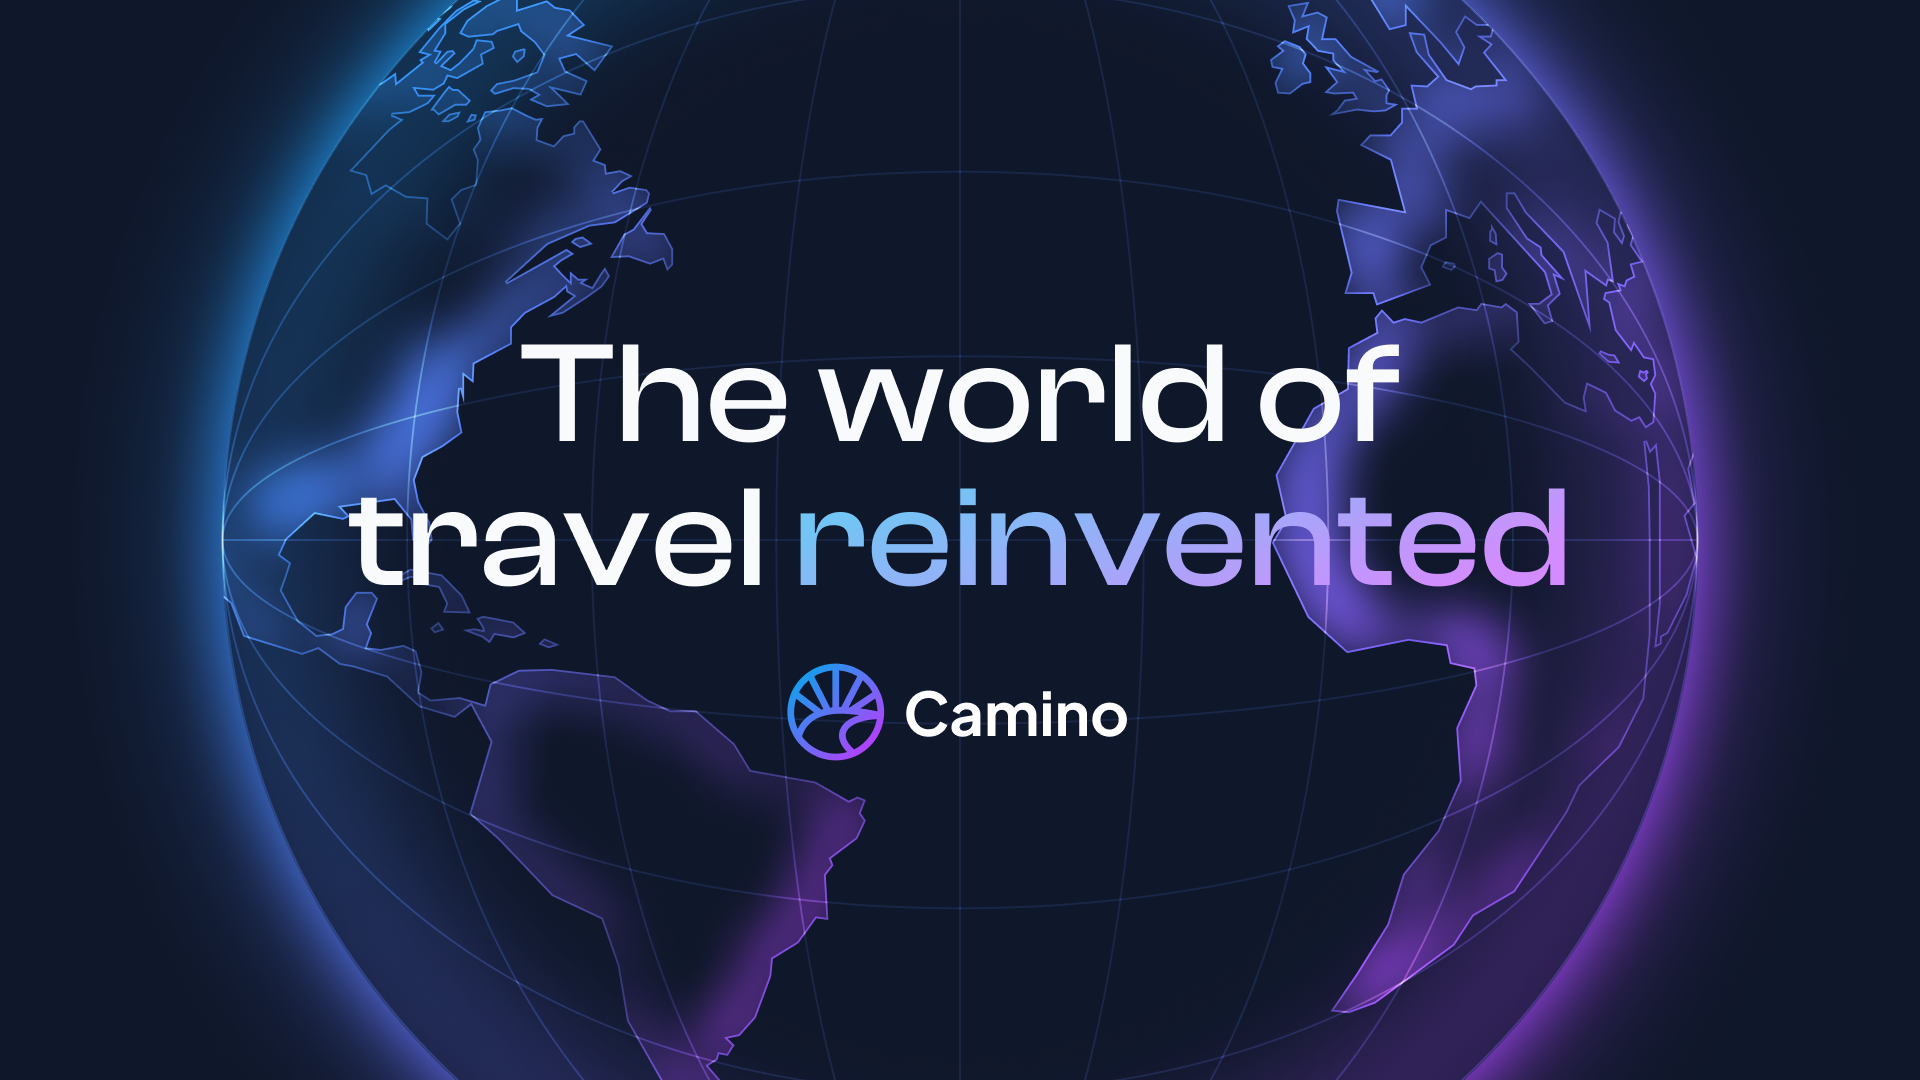
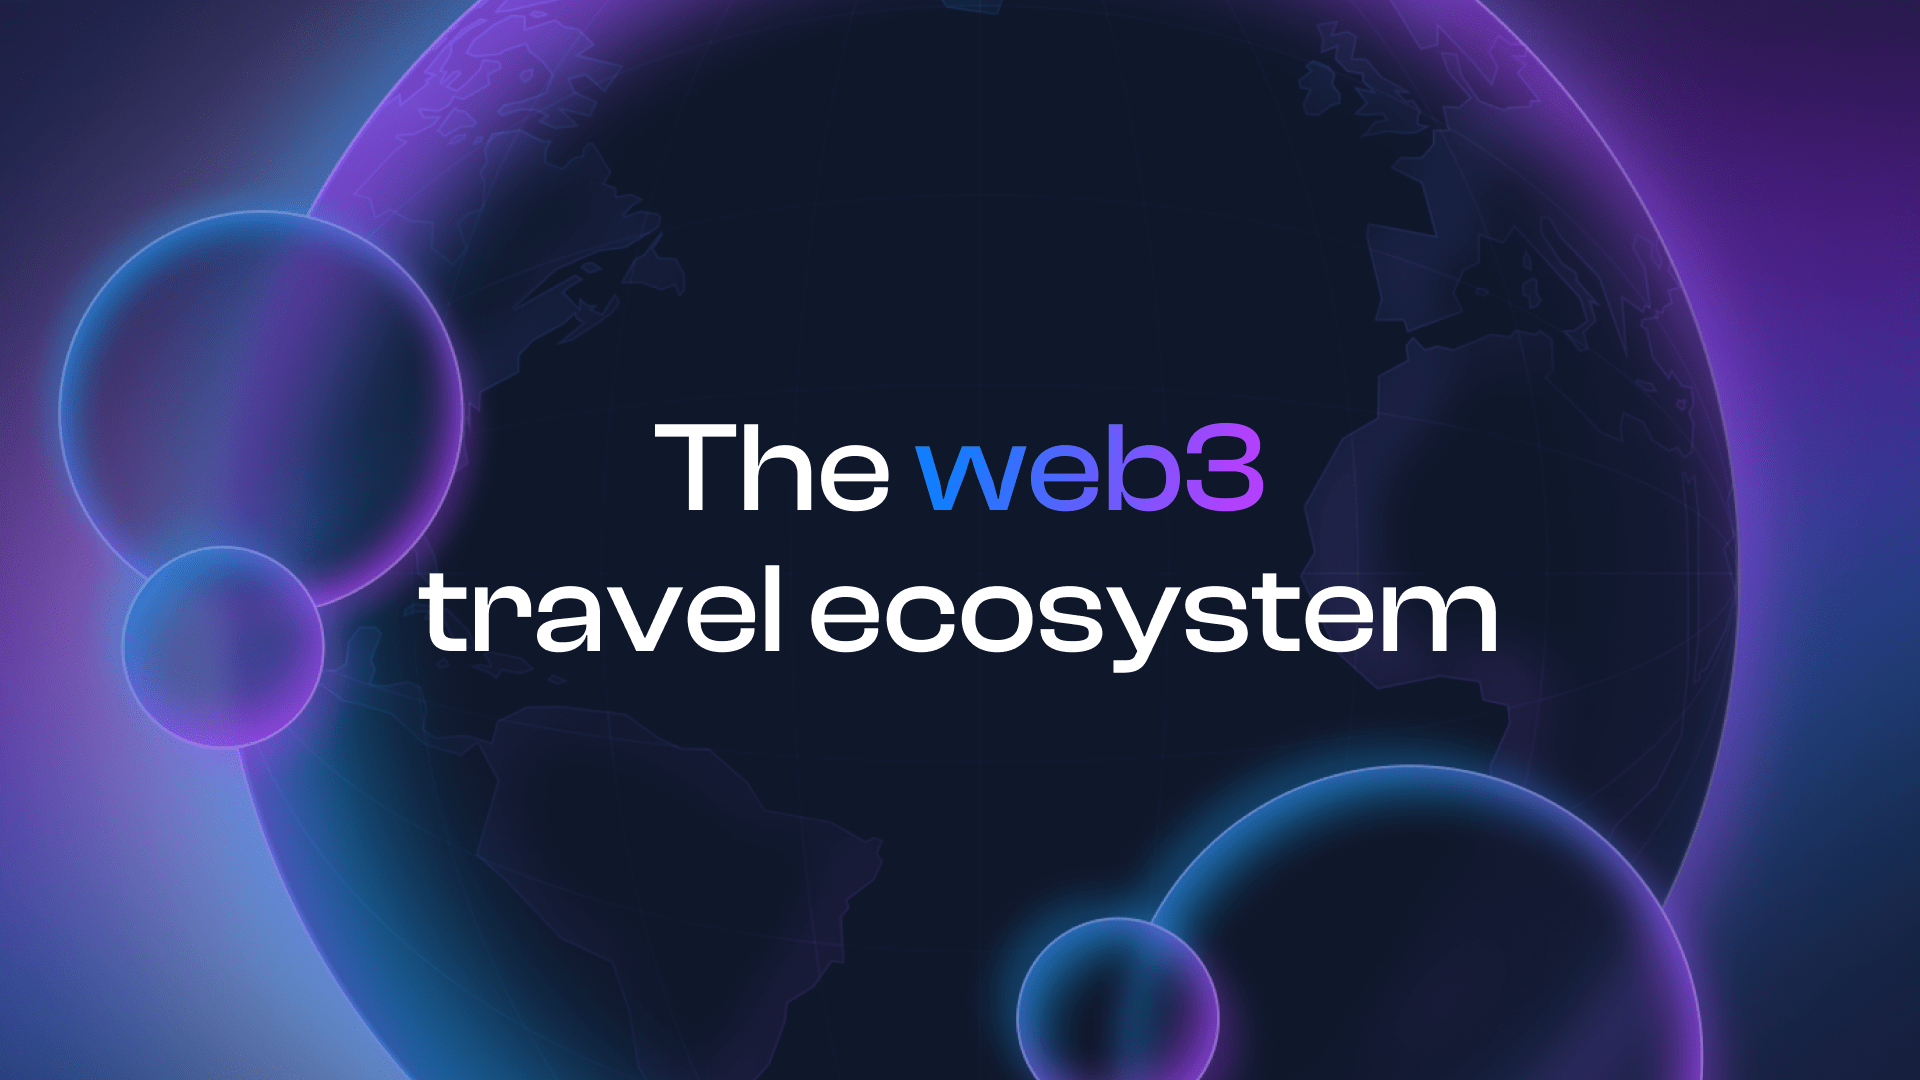
slider fix and layout updates

diff --git a/src/community.html b/src/community.html
@@ -10,14 +10,14 @@ layout:         default
             <div class="text-caminoSky uppercase font-headline text-base md:text-xl font-medium tracking-widest">
                 Community
             </div>
-            <div class="text-4xl xl:text-7xl font-headline font-medium">
+            <div class="text-4xl xl:text-7xl font-headline font-medium my-6">
                 Camino Network community
             </div>
             <p class="text-base lg:text-xl max-w-prose text-gray-300 my-6">
                 Let’s build together a new efficient Internet for the whole travel industry, create new experiences, and find new models and approaches on the way to a sustainable future.
             </p>
         </div>
-        {% image "./src/static/images/cardImages/blockStack-dark-left.png", "imagealt", "order-first md:order-last flex-shrink-0 md:w-1/2 md:-mr-24", "" %}
+        {% image "./src/static/images/_header/glas-community.png", "imagealt", "order-first md:order-last flex-shrink-0 md:w-1/2 md:-mr-24", "" %}
     </div>
 </div>
 

diff --git a/src/index.html b/src/index.html
@@ -23,7 +23,7 @@ placement:      homepage
                 </a>
             </div>
         </div>
-        {% image "./src/static/images/_header/glas-globe.png", "imagealt", "order-first md:order-last flex-shrink-0 md:w-1/2 md:-mr-24", "w-[600px] h-[600px]" %}
+        {% image "./src/static/images/_header/glas-globe.png", "imagealt", "order-first md:order-last flex-shrink-0 md:w-1/2 md:-mr-24", "" %}
     </div>
 </div>
 

diff --git a/src/includes/supporter-slider.html b/src/includes/supporter-slider.html
@@ -141,6 +141,7 @@ $(document).ready(function(){
         rows: 3,
         dots: false,
         pauseOnHover: true,
+        lazyLoad: 'progressive',
         responsive: [{
             breakpoint: 768,
             settings: {
